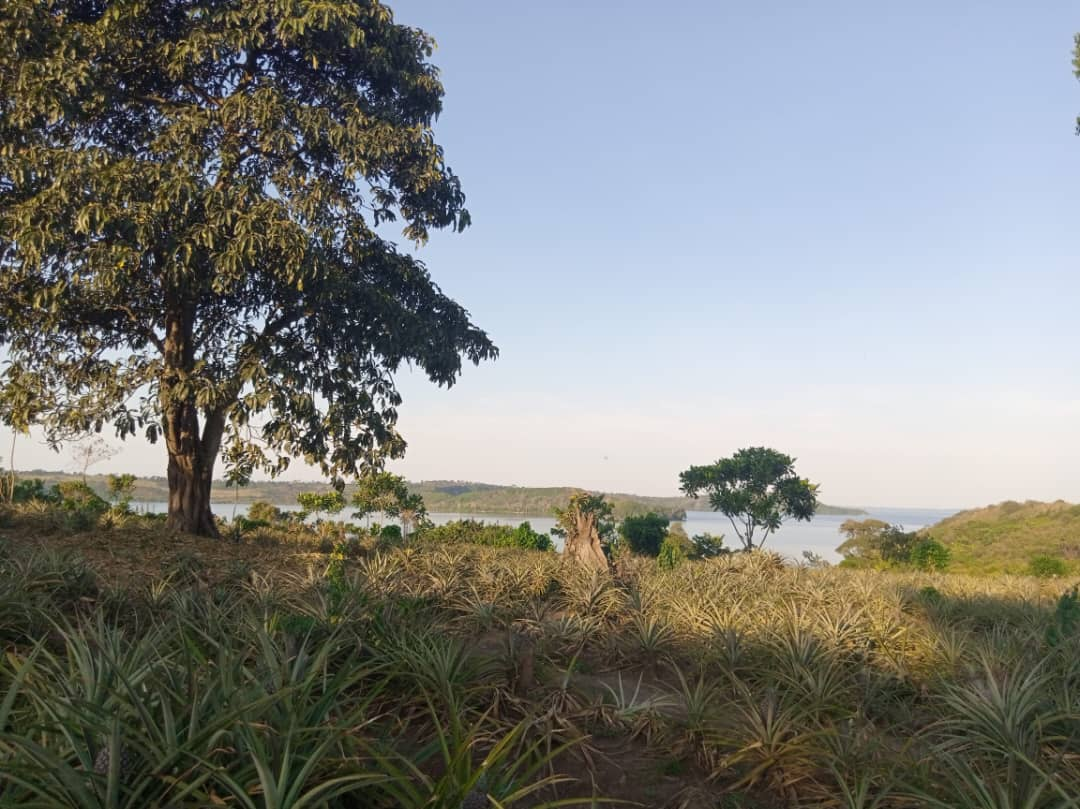
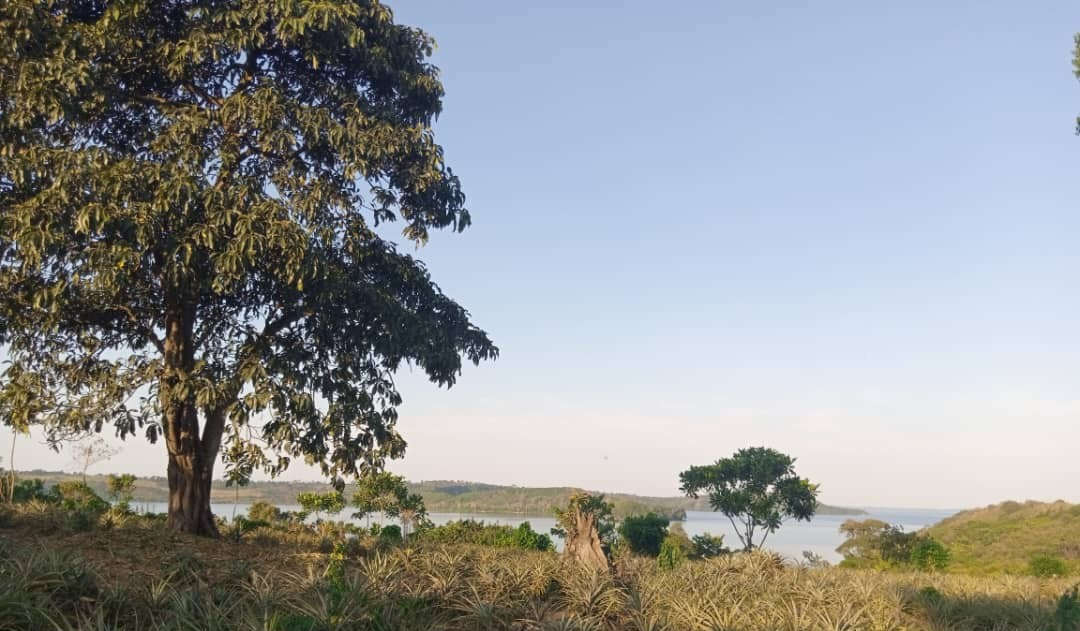
media: straighten closing shot, crop lake house, fix two heroes and alt claims, strip phone watermarks

diff --git a/app/the-land/page.tsx b/app/the-land/page.tsx
@@ -15,8 +15,8 @@ export default function TheLandPage() {
       <section className="relative flex min-h-[50vh] items-end overflow-hidden">
         <div className="absolute inset-0 bg-dusk" />
         <Image
-          src="/images/forest-roots.jpg"
-          alt="Buttress roots in the forest fed by an ancestral spring"
+          src="/images/forest-lake-view.jpg"
+          alt="A spreading tree with mossy buttress roots, the lake showing through the trunks"
           fill
           priority
           className="absolute inset-0 h-full w-full object-cover"

diff --git a/app/page.tsx b/app/page.tsx
@@ -98,7 +98,7 @@ export default function HomePage() {
               <div className="relative overflow-hidden rounded-md">
                 <Image
                   src="/images/forest-roots.jpg"
-                  alt="Buttress roots in the forest fed by an ancestral spring"
+                  alt="Buttress roots of an ancient tree in the sanctuary forest"
                   width={400}
                   height={300}
                   className="aspect-[4/3] w-full object-cover transition-transform duration-500 group-hover:scale-105"

diff --git a/app/prepare/page.tsx b/app/prepare/page.tsx
@@ -15,8 +15,8 @@ export default function PreparePage() {
       <section className="relative flex min-h-[50vh] items-end overflow-hidden">
         <div className="absolute inset-0 bg-dusk" />
         <Image
-          src="/images/arrival-boat.jpg"
-          alt="The water the Lake House sits on"
+          src="/images/shore-calm-blue.jpg"
+          alt="Calm water on the lake with the far shore in the distance"
           fill
           priority
           className="absolute inset-0 h-full w-full object-cover"

diff --git a/PHASE_REPORT.md b/PHASE_REPORT.md
@@ -1,72 +1,116 @@
-# Phase 15 report — Merge of cloth-rust + living-place into main
+# Phase 16 report — Media audit (media-audit)
 
-Status: complete
-Branch: main
-Scope: merge only — no new copy, no new pages
+Status: complete for the agreed batch; further items listed under "Open"
+Branch: media-audit (from origin/main @ d2fcd3e)
+Scope: image/video assets and the slots that use them
 Date: 27 Sep 2026
 
-Gates on the merged tree:
+Gates:
 - `npm run lint` → exit 0 (0 errors, 2 pre-existing warnings)
 - `npm run build` → exit 0 (15/15 routes)
 
-## Merges
+## Inventory reconciliation
 
-1. **`origin/cloth-rust` → main** — fast-forward `8a36b45..5342def`. No
-   conflict; the branch was already a descendant of main.
-2. **`origin/living-place` → main** — merge commit. One conflict, in
-   `PHASE_REPORT.md` only, because both branches had overwritten it; the
-   document was rewritten for this phase. `app/page.tsx` auto-merged cleanly —
-   the two branches had edited different regions of it (land blurb vs. Three
-   Acts numerals) and both survived. Verified in the built HTML.
+| | |
+|---|---|
+| Images on disk | 108 (32.8 MB) |
+| Images referenced | 52 |
+| Broken references | **0** |
+| Unused (left in place, per instruction) | 56 (~10.2 MB) |
+| Videos | 2, both used — both **640×360** |
 
-## Tokens confirmed in `app/globals.css`
+`PHOTO_INVENTORY.md` was treated as the governing plan for every judgement
+below.
 
-```
---bark:       #C4542A
---bark-soft:  #E8A06A
---ember:      #8B2E14
---lake:       #1565C0   (unchanged)
---leaf:       #22E36A   (unchanged)
-```
+## Fixed in this pass
 
-`@theme inline` registers `--color-bark`, `--color-bark-soft`,
-`--color-ember` against those variables. All three hexes are present in the
-compiled CSS.
+### 1. `closing-shore.jpg` straightened
+Measured roll by gradient orientation (peak −18°), confirmed visually against
+0/12/−12/19° candidates, settled on **+15°**. Rotated with a 1.311× pre-zoom
+so the frame still fills a 4:3 crop — no white corners, no loss of coverage.
+Affects the homepage closing CTA and the `/immersions` hero.
 
-`text-bark-soft` is applied only where the parent is dark: the homepage Three
-Acts numerals, the `/the-host` hero overline and quote cite, the `/the-cave`
-etiquette card headings, the Hero overlines (over the dusk gradient), and the
-footer. `text-bark` remains on the light sections (header, language stub, home
-invite cite, stay-card meta, geography labels, immersions day ratings, 404
-overline, and the two `/apply` checkboxes, which are accents on a cream card).
+### 2. `lake-house.jpg` cropped tighter
+Original showed a mown lawn, a black water tank and shoreline litter. Cropped
+to x1500 y600 1800×1350 (4:3), which keeps the stilted house, the lake, the far
+shore, the mango canopy and the boat shelter, and drops the litter, tank and
+lawn. The existing alt text is now exactly accurate. 1800×1350, 812 KB.
+Three slots affected: homepage gateway, `/the-land` card and `/the-land` overview.
 
-Contrast on `--dusk`: `bark-soft` 6.86:1 (was 3.30:1 for the rust), and 4.10:1
-at 70% opacity for the Hero sub-overline.
+### 3. Two broken heroes replaced
+Both were 486×1080 (aspect 0.45) portrait phone frames used full-bleed, where
+only **25% of the frame** was visible.
 
-## The two land paragraphs confirmed
+- `/the-land`: `forest-roots.jpg` → `forest-lake-view.jpg` (landscape, already
+  used elsewhere on the page, so no new bytes). A spreading tree with mossy
+  buttress roots and the lake through the trunks.
+- `/prepare`: `arrival-boat.jpg` → `shore-calm-blue.jpg`.
 
-A Living Place — history, not inventory:
+`boat-group-crossing.jpg` was evaluated as the `/prepare` candidate and
+rejected — the frame is foliage-obscured and hazy with no boats or people
+visible, despite its name.
 
-> Ba Lubaale Ancestral Sanctuary Kiwamirembe is a living place — ground to
-> approach the Lubaale of Ssese and Lake Nalubaale in a single visit, with the
-> host holding the door. It is older than the people now standing on it. It was
-> passed to her in 1998. The forest, the spring, the fire, the herd, and more
-> than a hundred caves are here. Three of the caves are open to guests —
-> Nalubaale, Lubaale Musisi, and Lubaale Wanema. The rest are visited only
-> after a calling.
+### 4. Alt text corrected
+`forest-roots.jpg` was captioned "fed by an ancestral spring" while showing no
+water at all. Now: "Buttress roots of an ancient tree in the sanctuary forest".
+Verified: **0** `alt` attributes across all eight built pages still claim water
+the frame does not show. (The hero sub-heading "Set within vast forest fed by an
+ancestral spring" is page copy, not an alt, and was left alone.)
 
-The Lake House — its own narration:
+### 5. Phone watermarks removed — 3 live exposures found and fixed
+A corner-sheet sweep of all 108 files found **9 images carrying a burned-in
+phone watermark**, 4 of them published:
 
-> The Lake House sits on the water and hosts the ba Lubaale who stay in the
-> lake. Fish feeding is done here, always guided. Rooms sit over the water on
-> stilts, and the lake is the only alarm.
+| File | Mark | Status |
+|---|---|---|
+| `pineapple-farm-lake.jpg` | Samsung Quad Camera | **live on `/the-land`** — fixed |
+| `sunset-calm-lake.jpg` | Samsung Quad Camera | **live in `MomentsStrip`** — fixed |
+| `bananas-woven-mats.jpg` | Samsung Quad Camera | live on `/atelier`, hidden only by the crop — fixed |
+| `fresh-tilapia.jpg` | Samsung Quad Camera | live on `/the-land`, hidden only by the crop — fixed |
+| `boat-shelter.jpg` | CAMON 30S Pro | unused |
+| `cloudscape-hills.jpg` | Samsung Quad Camera | unused |
+| `host-garden-welcome.jpg` | CAMON 30S Pro | unused |
+| `kente-rock-sit.jpg` | CAMON 30S Pro | unused |
+| `lake-cloudscape.jpg` | Samsung Quad Camera | unused |
 
-Neither "three-chambered sacred cave" nor "Board over fish" appears anywhere;
-chamber wording remains only on `/the-cave`. The goat bell sits with the Herd
-and the weaver nests with the Forest, as reviewed.
+The three that are in use were re-saved with the bottom 22% removed
+(1080×809 → 1080×631, aspect 1.33 → 1.71), which clears the mark and also makes
+them landscape-native. Verified the marks are gone by re-inspecting the corners.
+
+Note the two that were previously "safe" were safe only because a 4:3 crop
+happened to slice off the bottom 22%. That was luck, not policy.
+
+## Open — not changed, needs your call
+
+1. **The hero is a tortoise.** `Hero.tsx:64` plays `tortoise.mp4` full-bleed,
+   and the approved shore-gathering still only renders under
+   `prefers-reduced-motion`. The unimported 1080p master was reviewed
+   (`20260916_144337.mp4`, 92 s): it is a handheld property pan — lawn, water
+   tanks, tyres, cottage. **Not recommended for the hero.** Still-crossfade or a
+   slow push on the approved still remain the better options.
+2. **Both videos are 360p.** `lake-house.mp4` (19.7 MB) and `tortoise.mp4`
+   (4.9 MB) are 640×360 across full-bleed sections. The 1080p master exists and
+   could be re-encoded, but the hero decision should come first.
+3. **`MomentsStrip` violations**, deferred by instruction: `food-plate.jpg` and
+   `food-luwombo.jpg` (food plates on the homepage), `cowrie-three.jpg`
+   (gathering selfie), `braided-bead-set.jpg` (jewellery macro) — all forbidden
+   by `PHOTO_INVENTORY.md:231` — plus `cave-mouth-wide.jpg`, a crowded cave
+   interior with a silhouetted head, currently rotating above the fold. The last
+   one is the item I would not leave sitting.
+4. **Aspect-ratio crop, remaining 27 images.** 29 of 52 used images lose over
+   40% of their frame in a 4:3 box; the two heroes are fixed above, leaving 8
+   severe (`coffee-cherries`, `braided-bead-set`, `cowrie-seed-necklace`,
+   `cowrie-necklace-still`, `kente-shore-two`, `kente-water-rite` at 34–42%) and
+   ~19 moderate. The severe ones are portrait object stills on `/atelier`; the
+   clean fix is a portrait-shaped box for those cards rather than `object-position`
+   nudging.
+5. **Thin pages.** `/practices` 1 image, `/immersions` 1, `/prepare` 2. Sanctioned
+   filler exists in the unused pool (`fire-embers`, `food-whole-fish`,
+   `food-luwombo`, `kitchen-leaf-wrap`, `host-measuring-bark`, `og-cave-shore`),
+   with the standing guard that no food image may illustrate the no-egg rule.
+6. **Seven watermarked unused images** must be cropped or retouched before any
+   of them is published.
 
 ## Not touched
-
-Prices, the apply form and its fields, the WhatsApp number, and the domain
-were not modified by either merge. The merge diff contains no price, form, or
-contact changes. No pages were added.
+Prices, the apply form and its fields, the WhatsApp number, the domain, routes,
+the palette, and page copy beyond the alt strings listed above.
